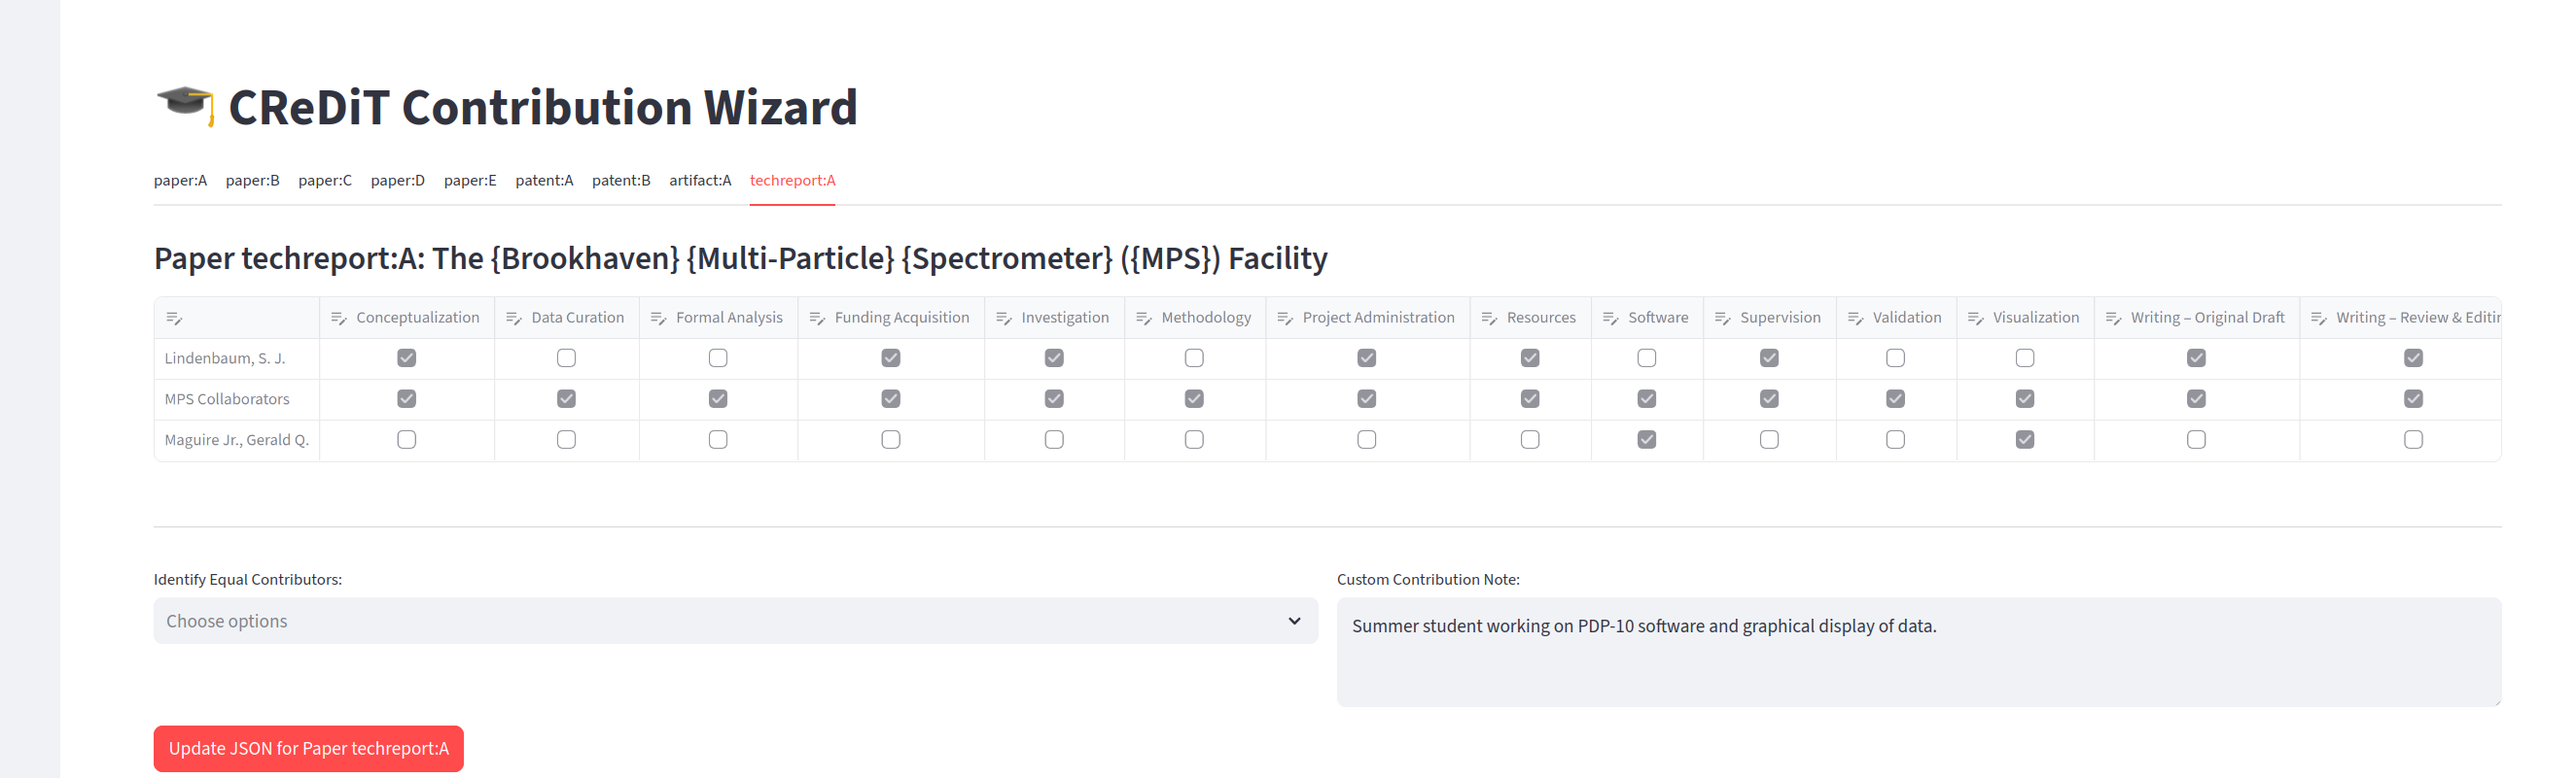
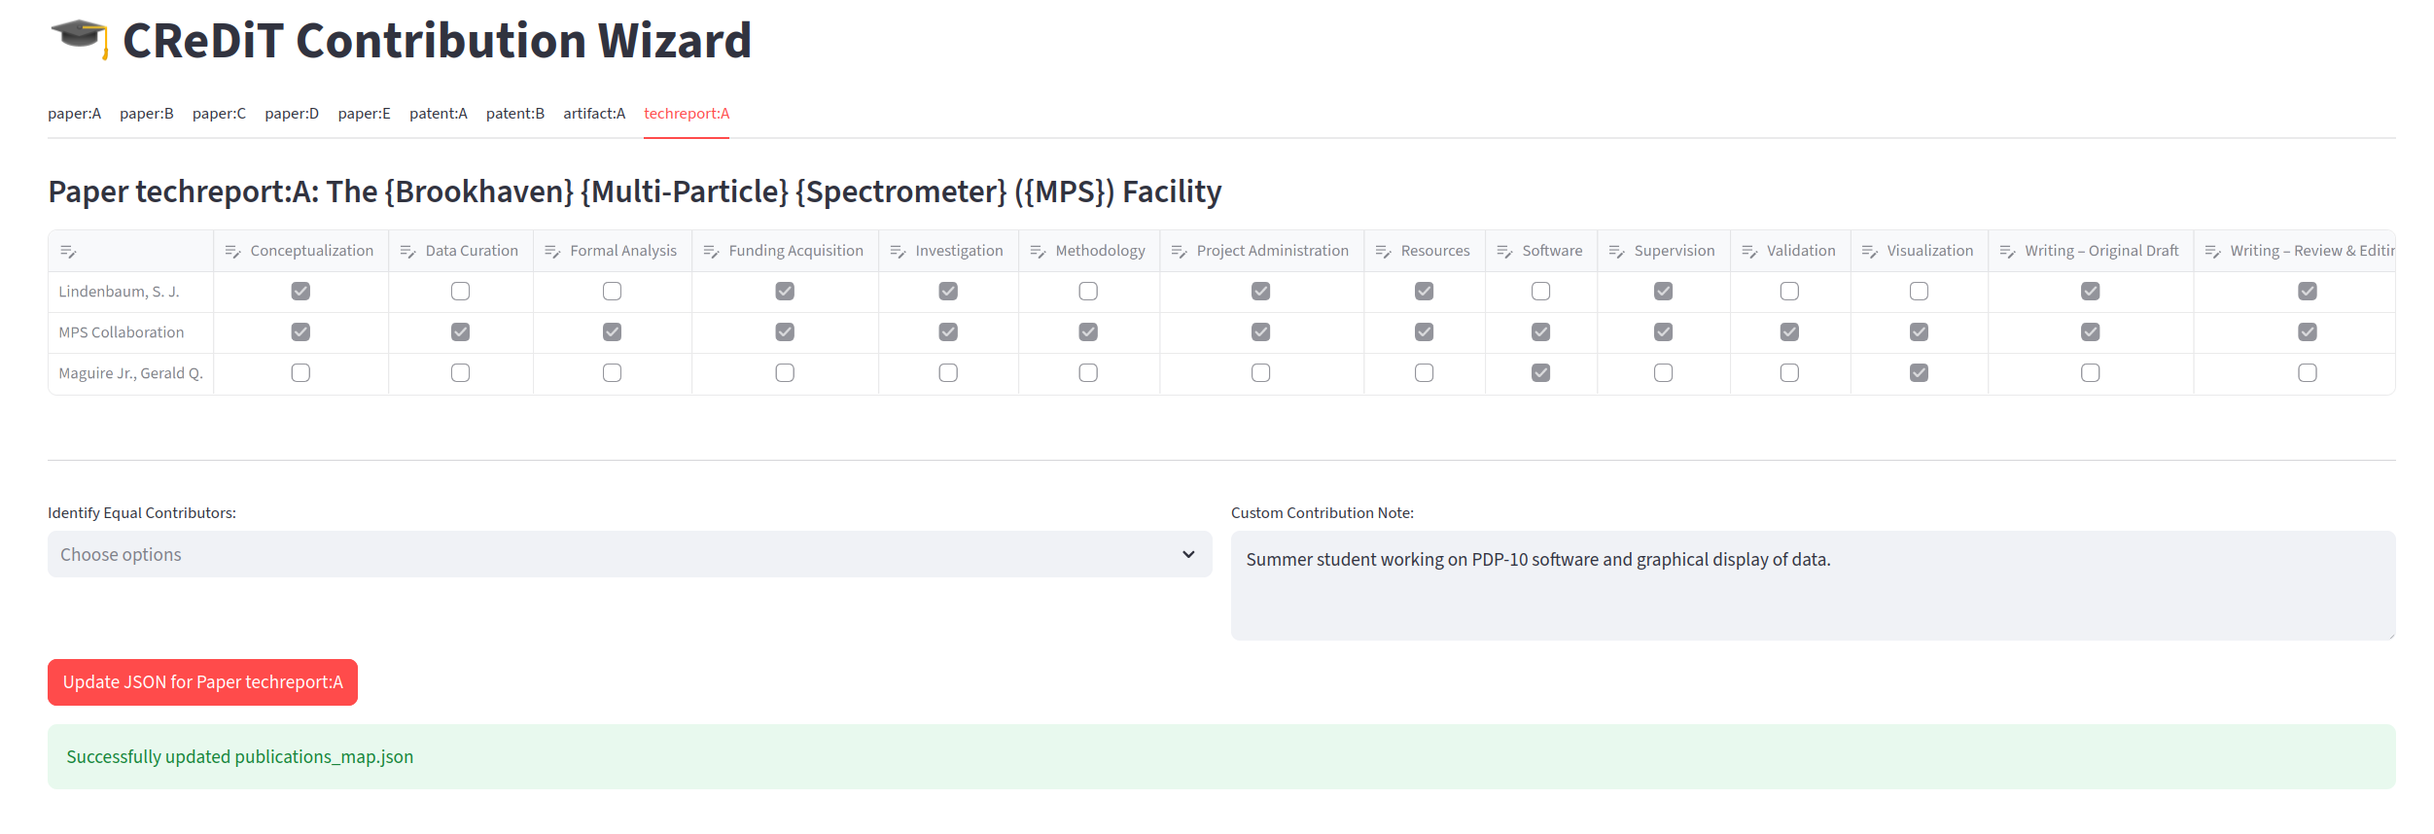
Revised the documentation for the collaboration example.

diff --git a/README.md b/README.md
@@ -228,12 +228,12 @@ The generator determines how to render each paper based on the `status` and `pdf
 > Use the **Missing PDF** state during the early stages of writing to verify your tab order and permission text even before you have gathered all final publication files.
 
 ### Handling collaborations with large numbers of authors
-In a number of research areas, it is common to have a large (or even very large) number of collaborators in a name collaboration. Rather than have the student needing to have a CReDiT matrix that has perhaps thousands of rows, I have extentd the CReDiT_Matrix_Wizard.py to be able to handle 'specific_contributors'.
+In a number of research areas, it is common to have a large (or even very large) number of collaborators in a name collaboration. Rather than have the student needing to have a CReDiT matrix that has perhaps thousands of rows, I have extentd the `CReDiT_Matrix_Wizard.py` to be able to handle 'specific_contributors'.
 
 For example, consider a user who particiated in the BNL MPS collaboration with a reference:
 ```bibtex
 @techreport{bnlMPS1975,
-  author      = {Lindenbaum, S. J. and {MPS Collaborators}},
+  author      = {Lindenbaum, S. J. and {MPS Collaboration}},
   title       = {The {Brookhaven} {Multi-Particle} {Spectrometer} ({MPS}) Facility},
   institution = {Brookhaven National Laboratory},
   year        = {1975},
@@ -269,12 +269,10 @@ and publications_map.json file containing:
     }
 
 ```
+Note that the essential fields to configure were: "status": "included",         "label": "techreport:A", "bib_key": "bnlMPS1975", "in_bib": true, and         "specific_contributors". These are essential since only publications that are included cause the CReDiT_Matrix_Wizard to ask about them using the indicated "label"; together with the information from the indicated "bib_key" in the bib_path (configured in the wizard as `references.bib`).
 
 If one runs the command `streamlit run ./scripts/CReDiT_Matrix_Wizard.py` and selected the techreport:A tab you will seen the configuration:
 ![Configured myself as a collaborator contributing to software and visualization in the MPS Collaboration](figures/wizard-collaboration-example.png)
-
-
-
 
 The resulting JSON file will contain:
 ```json
@@ -309,7 +307,7 @@ The resulting JSON file will contain:
                 "Writing – Original Draft",
                 "Writing – Review & Editing"
             ],
-            "MPS Collaborators": [
+            "MPS Collaboration": [
                 "Conceptualization",
                 "Data Curation",
                 "Formal Analysis",
